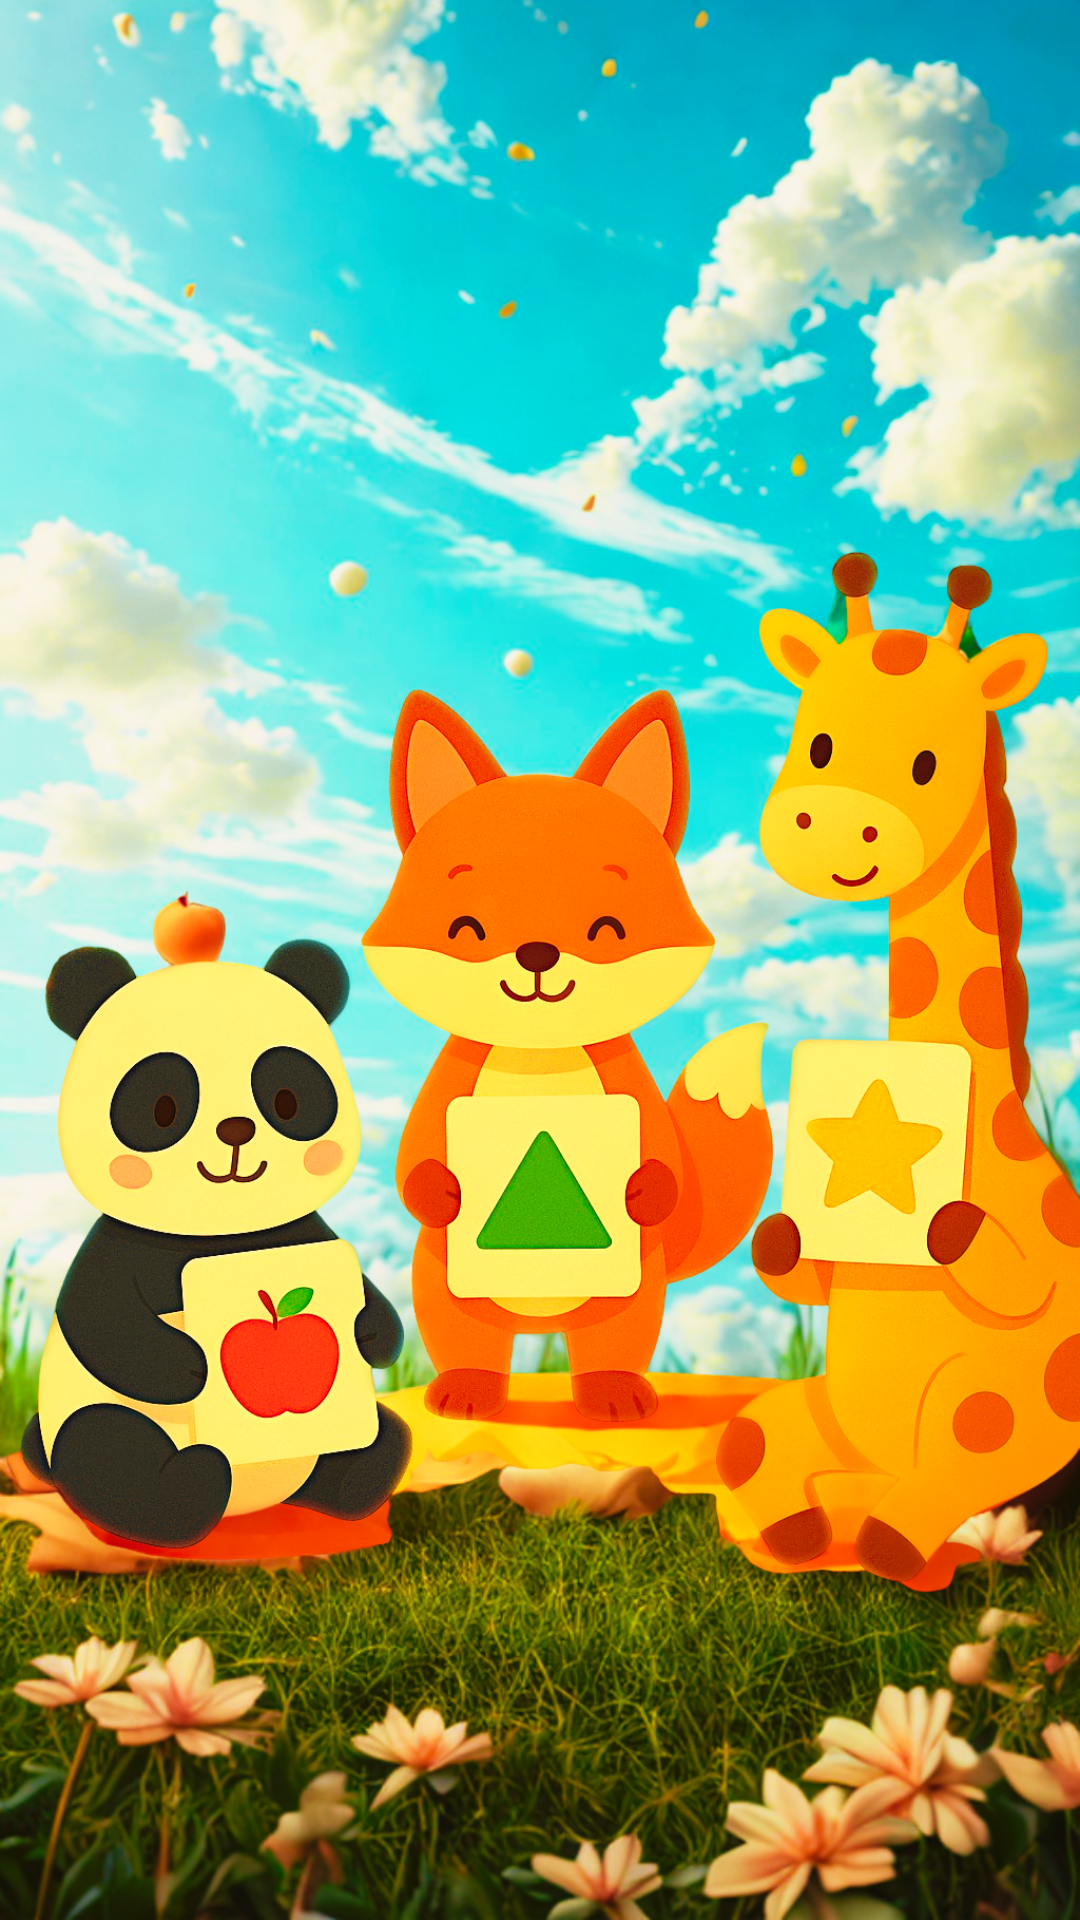
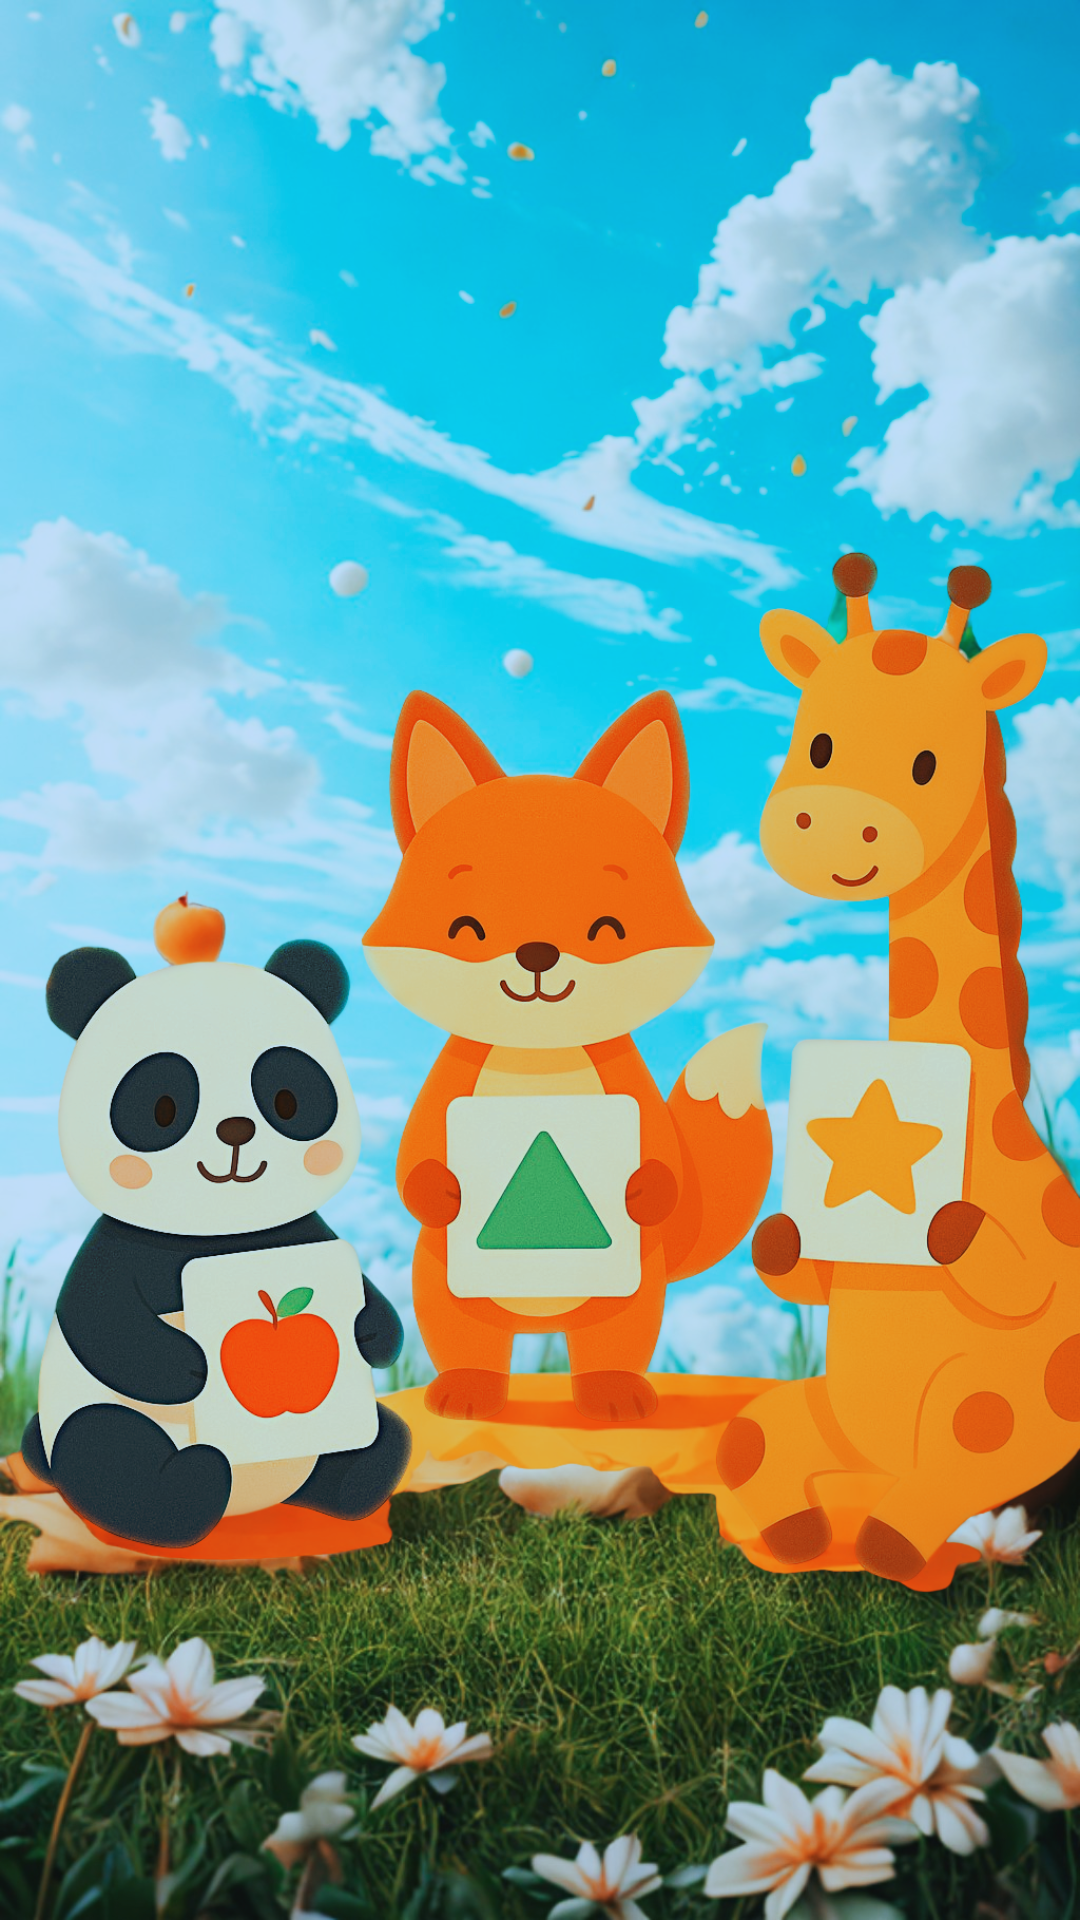
menu updated

diff --git a/app/flashcards.tsx b/app/flashcards.tsx
@@ -135,7 +135,7 @@ export default function FlashcardsScreen() {
             }}
         >
             {/* 🔙 Top Nav Buttons */}
-            <View className="flex-row justify-between items-center pt-2 pb-4">
+            <View className="flex-row justify-between items-center pt-2 pb-1">
                 <TouchableOpacity
                     onPress={() => router.back()}
                     className="flex-row items-center bg-white px-3 py-1 rounded-full shadow"
@@ -155,7 +155,7 @@ export default function FlashcardsScreen() {
 
             {/* 📖 Flashcard Area */}
             <View className="flex-1">
-                <View className="flex-[12] justify-center items-center">
+                <View className="flex-[9] justify-center items-center">
                     <Animated.View style={cardStyle}>
                         <Flashcard
                             card={cards[index]}
